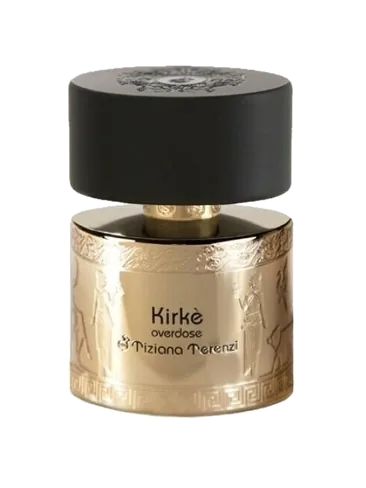
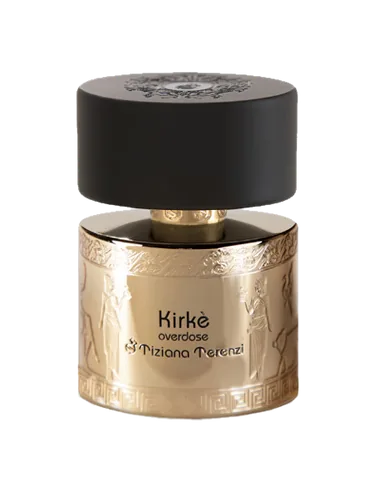
Plus aucune note inventée, et « Esprit Libre » remis à l'endroit
Trois points tranchés avec le client.

Esprit Libre n'est pas une maison, c'est LE parfum de Nayu Parfums,
qui s'appelait Yuna Parfums avant de changer de nom. Le tableur porte
donc deux lignes — « ESPRIT LIBRE / YUNA » et « ESPRIT LIBRE / NAYU » —
pour un seul jus, ce que l'export Shopify confirme : les deux pointent
la même image, et celle sous « Yuna » n'a ni note ni visuel. Une seule
fiche reste, « Esprit Libre » chez Nayu Parfums, avec la photo en
750 px qui dormait sous l'autre identifiant.

Les treize notes sur 5 posées au jugé disparaissent, ainsi que les
quatre renvois vers la source qui les accompagnaient. Elles n'étaient
pas décoratives : elles alimentaient le tri « Meilleures notes » du
catalogue, bien visible, et le choix du parfum mis en avant sur chaque
page maison. Les deux s'appuient désormais sur la tenue, qui est
mesurée, avec le nom pour départager afin que rien ne bouge d'un
chargement à l'autre. Le libellé devient « Meilleure tenue ».

Photos : la source servait la vignette en 375 px alors qu'elle a
l'original. Essayé sur les dix fiches concernées — l'original a plus
de vide autour du flacon, donc une fois recadré il est PLUS petit.
Cinq revenues en arrière, une gagnée. Ces dix-là resteront petites
tant que le client n'enverra pas ses propres photos.

Au passage, Sospiro Bel Canto n'avait jamais eu sa photo téléchargée.

340 parfums, 53 maisons, 0 bloquant.

Changed region(s): [[0.1803, 0.3996, 0.8115, 0.8607], [0.1803, 0.123, 0.8115, 0.3996], [0.5109, 0.3996, 0.6311, 0.4611]]

diff --git a/assets/js/catalogue-client.js b/assets/js/catalogue-client.js
@@ -50,8 +50,7 @@
     {"id": "eau-de-soie-peach-flake", "brand": "Eau de Soie", "brandId": "eau-de-soie", "name": "Peach Flake", "notesTop": ["Pêche", "Fleur d'oranger"], "notesHeart": ["Amande", "Vanille bourbon"], "notesBase": ["Fève de tonka", "Musc blanc", "Vanille"], "gender": "homme", "price": 11.9, "prices": {"2ml": 11.9, "5ml": 24.9, "10ml": 47.9}, "type": "decant", "supplierAvailable": true, "shopifyHandle": "test-poc-eau-de-soie-peach-flake", "accords": ["fruité", "sucré", "amande", "musqué", "vanille", "poudré", "fruits à coque", "ambre"], "annee": "2025", "family": "oriental", "image": "assets/images/products/eau-de-soie-peach-flake.webp", "imageWidth": 750},
     {"id": "eau-de-soie-summer-in-outer-banks", "brand": "Eau de Soie", "brandId": "eau-de-soie", "name": "Summer In Outer Banks", "notesTop": ["Ananas", "Bergamote", "Citron"], "notesHeart": ["Pêche", "Fleurs blanches"], "notesBase": ["Benjoin", "Cuir", "Fève de tonka"], "gender": "homme", "price": 11.9, "prices": {"2ml": 11.9, "5ml": 23.9, "10ml": 45.9}, "type": "decant", "supplierAvailable": true, "shopifyHandle": "test-poc-eau-de-soie-summer-in-outer-banks", "accords": ["fruité", "sucré", "agrume", "ambre", "tropical", "cuir", "frais"], "family": "oriental", "image": "assets/images/products/eau-de-soie-summer-in-outer-banks.webp", "imageWidth": 432},
     {"id": "ella-k-amber-k", "brand": "Ella K", "brandId": "ella-k", "name": "Amber K", "notesTop": ["Cigare cubain", "Lys", "Poivre rose"], "notesHeart": ["Cacao", "Patchouli", "Iris", "Extrait de cèdre blanc"], "notesBase": ["Ambre", "Fève de tonka", "Résine oliban", "Vanille", "Cuir"], "gender": "homme", "price": 10.9, "prices": {"2ml": 10.9, "5ml": 22.9, "10ml": 43.9}, "type": "decant", "supplierAvailable": true, "shopifyHandle": "test-poc-ella-k-amber-k", "accords": ["ambre", "épicé chaud", "vanille", "cacao", "sucré", "boisé", "poudré", "patchouli", "animal", "épicé doux"], "annee": "2025", "family": "oriental", "image": "assets/images/products/ella-k-amber-k.webp", "imageWidth": 750},
-    {"id": "esprit-libre-yuna", "brand": "Esprit Libre", "brandId": "esprit-libre", "name": "Yuna", "notesTop": ["Amande", "Pomme", "Framboise"], "notesHeart": ["Caramel", "Fruit de la passion", "Vanille"], "notesBase": ["Bois de santal", "Fève de tonka", "Vanille"], "gender": "femme", "price": 7.9, "prices": {"2ml": 7.9, "5ml": 14.9, "10ml": 28.9}, "type": "decant", "supplierAvailable": true, "shopifyHandle": "test-poc-esprit-libre-yuna", "image": "assets/images/products/esprit-libre-yuna.webp", "imageWidth": 750},
-    {"id": "esprit-libre-nayu", "brand": "Esprit Libre", "brandId": "esprit-libre", "name": "Nayu", "notesTop": ["Pomme", "Framboise", "Amande"], "notesHeart": ["Fruit de la passion", "Vanille", "Caramel"], "notesBase": ["Fève de tonka", "Bois de santal"], "gender": "unisexe", "price": 7.9, "prices": {"2ml": 7.9, "5ml": 14.9, "10ml": 28.9}, "type": "decant", "supplierAvailable": true, "shopifyHandle": "test-poc-esprit-libre-nayu", "accords": ["fruity", "sweet", "vanilla", "fresh", "tropical", "caramel", "Search by accords"], "image": "assets/images/products/esprit-libre-nayu.webp", "imageWidth": 375},
+    {"id": "nayu-parfums-esprit-libre", "brand": "Nayu Parfums", "brandId": "nayu-parfums", "name": "Esprit Libre", "notesTop": ["Pomme", "Framboise", "Amande"], "notesHeart": ["Fruit de la passion", "Vanille", "Caramel"], "notesBase": ["Fève de tonka", "Bois de santal"], "gender": "unisexe", "price": 7.9, "prices": {"2ml": 7.9, "5ml": 14.9, "10ml": 28.9}, "type": "decant", "supplierAvailable": true, "shopifyHandle": "test-poc-esprit-libre-nayu", "accords": ["fruity", "sweet", "vanilla", "fresh", "tropical", "caramel", "Search by accords"], "image": "assets/images/products/nayu-parfums-esprit-libre.webp", "imageWidth": 750},
     {"id": "fomowa-akatsuki-melba", "brand": "Fomowa", "brandId": "fomowa", "name": "Akatsuki Melba", "notesTop": ["Pêche", "Osmanthus"], "notesHeart": ["Framboise", "Gelée", "Bourgeon de cassis"], "notesBase": ["Caramel salé", "Vanille de Tahiti", "Fève de tonka"], "gender": "homme", "price": 8.9, "prices": {"2ml": 8.9, "5ml": 15.9, "10ml": 29.9}, "prixEstime": true, "type": "decant", "supplierAvailable": true, "shopifyHandle": "test-poc-fomowa-akatsuki-melba", "accords": ["fruité", "sucré", "vanille", "aromatique", "poudré"], "annee": "2025", "family": "aromatique", "image": "assets/images/products/fomowa-akatsuki-melba.webp", "imageWidth": 750},
     {"id": "fomowa-moonwalk-see-coco", "brand": "Fomowa", "brandId": "fomowa", "name": "Moonwalk See Coco", "notesTop": ["Citron de Sicile", "SugarLoaf Pineapple", "Italian Mandarin"], "notesHeart": ["Fruit de la passion", "Gingembre", "Crème fouettée", "Coco De Mer"], "notesBase": ["Citron", "Vanille", "Bois de santal"], "gender": "unisexe", "price": 8.9, "prices": {"2ml": 8.9, "5ml": 15.9, "10ml": 29.9}, "prixEstime": true, "type": "decant", "supplierAvailable": true, "shopifyHandle": "test-poc-fomowa-moonwalk-see-coco", "accords": ["citrus", "sweet", "fruity", "fresh", "vanilla", "tropical", "fresh spicy", "gourmand", "aromatic", "Search by accords"], "family": "gourmand", "image": "assets/images/products/fomowa-moonwalk-see-coco.webp", "imageWidth": 750},
     {"id": "fomowa-panaco-taha", "brand": "Fomowa", "brandId": "fomowa", "name": "Panaco Taha", "notesTop": ["Mangue", "Orange", "Vanille"], "notesHeart": ["Panacotta", "Vanille"], "notesBase": ["Safran", "Vanille de Tahiti", "Benjoin", "Musc blanc", "Fève de tonka"], "gender": "unisexe", "price": 8.9, "prices": {"2ml": 8.9, "5ml": 15.9, "10ml": 29.9}, "prixEstime": true, "type": "decant", "supplierAvailable": true, "shopifyHandle": "test-poc-fomowa-panaco-taha", "accords": ["sweet", "tropical", "vanilla", "warm spicy", "fruity", "citrus", "amber", "terpenic", "metallic", "musky", "Search by accords"], "image": "assets/images/products/fomowa-panaco-taha.webp", "imageWidth": 750},
@@ -141,7 +140,7 @@
     {"id": "stephanie-de-bruijn-promenons-nous-dans-les-bois", "brand": "Stéphanie de Bruijn", "brandId": "stephanie-de-bruijn", "name": "Promenons-nous dans les Bois", "notesTop": ["Lavande", "Notes vertes", "Citron", "Bergamote"], "notesHeart": ["Menthe", "Sauge", "Armoise", "Noix de muscade", "Anis", "Héliotrope"], "notesBase": ["Musc blanc", "Vanille", "Ambre", "Cèdre", "Bois de santal"], "gender": "homme", "price": 6.9, "prices": {"2ml": 6.9, "5ml": 11.9, "10ml": 22.9}, "type": "decant", "supplierAvailable": true, "shopifyHandle": "test-poc-stephanie-de-bruijn-promenons-nous-dans-les-bois", "accords": ["aromatique", "épicé frais", "vert", "herbacé", "musqué", "épicé doux", "Lavande", "poudré"], "annee": "2020", "family": "aromatique", "image": "assets/images/products/stephanie-de-bruijn-promenons-nous-dans-les-bois.webp", "imageWidth": 750},
     {"id": "tiziana-terenzi-halley", "brand": "Tiziana Terenzi", "brandId": "tiziana-terenzi", "name": "Halley", "notesTop": ["Fruit de la passion", "Bourgeon de cassis", "Citron", "Rose"], "notesHeart": ["Pêche", "Framboise", "Notes fleuries", "Notes vertes", "Cannelle"], "notesBase": ["Musc", "Vanille", "Notes boisées", "Ambre"], "gender": "homme", "price": 12.9, "prices": {"2ml": 12.9, "5ml": 25.9, "10ml": 49.9}, "type": "decant", "supplierAvailable": true, "shopifyHandle": "test-poc-tiziana-terenzi-halley", "accords": ["fruité", "sucré", "poudré", "musqué", "vert", "tropical", "vanille", "frais", "boisé", "aromatique"], "annee": "2019", "family": "floral", "image": "assets/images/products/tiziana-terenzi-halley.webp", "imageWidth": 540},
     {"id": "tiziana-terenzi-kirke", "brand": "Tiziana Terenzi", "brandId": "tiziana-terenzi", "name": "Kirke", "notesTop": ["Sont", "Fruit", "La", "Passion", "Pêche", "Poire", "Framboise", "Bourgeon", "Cassis", "Et", "Sable", "Note", "Est", "Muguet", "Les", "Musc", "Bois", "Santal", "Vanille", "Patchouli", "Héliotrope", "En", "Savoir", "Plus", "Sur", "Ce", "Parfum", "Dans", "D'autres", "Langues:", "Deutsch", "English", "Español", "Italiano", "Magyar", "Nederlands", "Polski", "Português", "Română", "Srpski", "Svenska", "Türkçe", "Čeština", "Ελληνικά", "Монгол", "Русский", "Українська", "עברית", "العربية", "日本語", "汉语", "한국어", "Parfumeur", "Paolo", "Terenzi", "Photos", "Fragram", "Composition", "Du", "Pyramide"], "notesHeart": ["Muguet"], "notesBase": ["Musc", "Bois", "Santal", "Vanille", "Patchouli", "Héliotrope"], "gender": "homme", "price": 7.9, "prices": {"2ml": 7.9, "5ml": 13.9, "10ml": 26.9}, "type": "decant", "supplierAvailable": true, "shopifyHandle": "test-poc-tiziana-terenzi-kirke", "accords": ["fruité", "sucré", "musqué", "poudré", "frais", "tropical", "boisé"], "annee": "2015", "family": "frais", "image": "assets/images/products/tiziana-terenzi-kirke.webp", "imageWidth": 750},
-    {"id": "tiziana-terenzi-kirke-overdose", "brand": "Tiziana Terenzi", "brandId": "tiziana-terenzi", "name": "Kirke Overdose", "notesTop": ["Fruit de la passion", "Pêche", "Framboise", "Rose de Bulgarie"], "notesHeart": ["Gardénia", "Sable", "Jasmin Sambac", "Cassis", "Muguet"], "notesBase": ["Musc", "Vanille bourbon", "Ambre gris", "Héliotrope", "Santal d'Australie", "Patchouli d'Inde"], "gender": "homme", "price": 10.9, "prices": {"2ml": 10.9, "5ml": 21.9, "10ml": 41.9}, "type": "decant", "supplierAvailable": true, "shopifyHandle": "test-poc-tiziana-terenzi-kirke-overdose", "accords": ["fruité", "fleurs blanches", "poudré", "sucré", "musqué", "vanille", "sable", "animal", "rose", "boisé"], "annee": "2025", "family": "floral", "image": "assets/images/products/tiziana-terenzi-kirke-overdose.webp", "imageWidth": 366},
+    {"id": "tiziana-terenzi-kirke-overdose", "brand": "Tiziana Terenzi", "brandId": "tiziana-terenzi", "name": "Kirke Overdose", "notesTop": ["Fruit de la passion", "Pêche", "Framboise", "Rose de Bulgarie"], "notesHeart": ["Gardénia", "Sable", "Jasmin Sambac", "Cassis", "Muguet"], "notesBase": ["Musc", "Vanille bourbon", "Ambre gris", "Héliotrope", "Santal d'Australie", "Patchouli d'Inde"], "gender": "homme", "price": 10.9, "prices": {"2ml": 10.9, "5ml": 21.9, "10ml": 41.9}, "type": "decant", "supplierAvailable": true, "shopifyHandle": "test-poc-tiziana-terenzi-kirke-overdose", "accords": ["fruité", "fleurs blanches", "poudré", "sucré", "musqué", "vanille", "sable", "animal", "rose", "boisé"], "annee": "2025", "family": "floral", "image": "assets/images/products/tiziana-terenzi-kirke-overdose.webp", "imageWidth": 374},
     {"id": "tiziana-terenzi-spirito-fiorentino", "brand": "Tiziana Terenzi", "brandId": "tiziana-terenzi", "name": "Spirito Fiorentino", "notesTop": ["Safran", "Orange", "Jasmin", "Lys"], "notesHeart": ["Ambre gris", "Ylang-ylang", "Magnolia", "Muguet"], "notesBase": ["Cuir", "Bouleau", "Bois précieux", "Musc", "Mousse de chêne", "Bois de santal"], "gender": "homme", "price": 9.9, "prices": {"2ml": 9.9, "5ml": 17.9, "10ml": 34.9}, "type": "decant", "supplierAvailable": true, "shopifyHandle": "test-poc-tiziana-terenzi-spirito-fiorentino", "accords": ["cuir", "boisé", "animal", "épicé chaud", "ambre", "fumé", "fleurs blanches", "métallique", "musqué", "mousse"], "annee": "2019", "family": "boisé", "image": "assets/images/products/tiziana-terenzi-spirito-fiorentino.webp", "imageWidth": 750},
     {"id": "tiziana-terenzi-andromeda", "brand": "Tiziana Terenzi", "brandId": "tiziana-terenzi", "name": "Andromeda", "notesTop": ["Ylang-ylang", "Jasmin d'eau", "Bergamote", "Herbe"], "notesHeart": ["Pêche", "Fleur de poirier", "Lys", "Héliotrope blanc", "Feuille de violette", "Rose de Damas"], "notesBase": ["Bois de cachemire", "Ambre", "Ébène", "Fève de tonka", "Vanille", "Sucre", "Noix de Coco"], "gender": "homme", "price": 9.9, "prices": {"2ml": 9.9, "5ml": 19.9, "10ml": 37.9}, "type": "decant", "supplierAvailable": true, "shopifyHandle": "test-poc-tiziana-terenzi-andromeda", "accords": ["boisé", "sucré", "vanille", "fleurs blanches", "ambre", "fruité", "floral", "poudré", "fleurs jaunes", "vert"], "annee": "2015", "family": "oriental", "image": "assets/images/products/tiziana-terenzi-andromeda.webp", "imageWidth": 750},
     {"id": "tiziana-terenzi-cassiopea", "brand": "Tiziana Terenzi", "brandId": "tiziana-terenzi", "name": "Cassiopea", "notesTop": ["Fruit de la passion", "Bourgeon de cassis", "Citron", "Fougère"], "notesHeart": ["Rose hybride de thé", "Muguet", "Œillet"], "notesBase": ["Fève de tonka", "Musc", "Bois de santal"], "gender": "homme", "price": 9.9, "prices": {"2ml": 9.9, "5ml": 19.9, "10ml": 38.9}, "type": "decant", "supplierAvailable": true, "shopifyHandle": "test-poc-tiziana-terenzi-cassiopea", "accords": ["fruité", "aromatique", "sucré", "frais", "tropical", "musqué", "poudré", "vanille", "boisé", "épicé chaud"], "annee": "2015", "family": "aromatique", "image": "assets/images/products/tiziana-terenzi-cassiopea.webp", "imageWidth": 750},

diff --git a/assets/js/products.js b/assets/js/products.js
@@ -56,11 +56,6 @@
       intensity: "intense",
       occasions: ["soirée", "bureau"],
       seasons: ["automne", "hiver"],
-      rating: 3.4,
-      fragrantica: {
-        rating: 4.12,
-        url: "https://www.fragrantica.fr/parfum/Amouage/Interlude-Man-15294.html",
-      },
       badge: "best",
       badgeLabel: "Best-seller",
       bestseller: true,
@@ -85,7 +80,6 @@
       seasons: ["automne", "hiver"],
       price: 9,
       priceRange: "budget",
-      rating: 4.4,
       badge: "new",
       badgeLabel: "Nouveauté",
       bestseller: false,
@@ -107,7 +101,6 @@
       intensity: "modéré",
       occasions: ["bureau", "soirée"],
       seasons: ["automne", "hiver"],
-      rating: 3.5,
       badge: "best",
       badgeLabel: "Best-seller",
       bestseller: true,
@@ -131,7 +124,6 @@
       occasions: ["bureau", "quotidien"],
       seasons: ["printemps", "été"],
       priceRange: "premium",
-      rating: 3.1,
       badge: "exclusive",
       badgeLabel: "Exclusif",
       bestseller: true,
@@ -156,11 +148,6 @@
       seasons: ["printemps", "été"],
       price: 10,
       priceRange: "budget",
-      rating: 4.1,
-      fragrantica: {
-        rating: 4.14,
-        url: "https://www.fragrantica.fr/parfum/Byredo/Bal-d-Afrique-6458.html",
-      },
       badge: null,
       badgeLabel: null,
       bestseller: false,
@@ -183,7 +170,6 @@
       occasions: ["soirée"],
       seasons: ["automne", "hiver"],
       price: 15,
-      rating: 4.3,
       badge: "new",
       badgeLabel: "Nouveauté",
       bestseller: false,
@@ -206,11 +192,6 @@
       occasions: ["bureau", "soirée"],
       seasons: ["automne", "hiver"],
       price: 11,
-      rating: 4.1,
-      fragrantica: {
-        rating: 3.99,
-        url: "https://www.fragrantica.fr/parfum/Memo-Paris/Irish-Leather-18393.html",
-      },
       badge: "new",
       badgeLabel: "Nouveauté",
       bestseller: false,
@@ -233,7 +214,6 @@
       occasions: ["date", "soirée"],
       seasons: ["automne", "hiver"],
       price: 13,
-      rating: 4.5,
       badge: "new",
       badgeLabel: "Nouveauté",
       bestseller: false,
@@ -256,7 +236,6 @@
       occasions: ["soirée", "date"],
       seasons: ["automne", "hiver"],
       price: 14,
-      rating: 3.5,
       badge: "new",
       badgeLabel: "Nouveauté",
       bestseller: false,
@@ -283,7 +262,6 @@
       seasons: ["automne", "hiver"],
       price: 17,
       priceRange: "premium",
-      rating: 3.9,
       badge: null,
       badgeLabel: null,
       bestseller: false,
@@ -306,11 +284,6 @@
       occasions: ["soirée", "date"],
       seasons: ["automne", "hiver"],
       price: 15,
-      rating: 3.1,
-      fragrantica: {
-        rating: 4.3,
-        url: "https://www.fragrantica.fr/parfum/Dior/Sauvage-Elixir-68415.html",
-      },
       badge: null,
       badgeLabel: null,
       bestseller: false,
@@ -332,7 +305,6 @@
       intensity: "modéré",
       occasions: ["quotidien", "bureau"],
       seasons: ["printemps", "été"],
-      rating: 3.8,
       badge: "best",
       badgeLabel: "Best-seller",
       bestseller: true,
@@ -361,7 +333,6 @@
       // pas ; l'autre n'apportait que le prix, qui est desormais ici.
       price: 11.9,
       prices: { "2ml": 11.9, "5ml": 22.9, "10ml": 44.9 },
-      rating: 3.7,
       badge: "best",
       badgeLabel: "Best-seller",
       bestseller: true,
@@ -477,7 +448,7 @@
     // « Esprit Libre » est le nom d'un parfum, pas d'une maison : le releve du
     // client range ainsi deux flacons signés Nayu et Yuna. Pays laissé vide
     // tant que le client n'a pas tranché.
-    { id: "esprit-libre", name: "Esprit Libre", country: "", tagline: "" },
+    { id: "nayu-parfums", name: "Nayu Parfums", country: "France", tagline: "Maison parisienne, anciennement Yuna Parfums" },
     { id: "fomowa", name: "Fomowa", country: "France", tagline: "Extraits gourmands inspirés de desserts" },
     { id: "frederic-malle", name: "Frédéric Malle", country: "France", tagline: "Éditions de parfums signées par leurs parfumeurs" },
     { id: "giardini-di-toscana", name: "Giardini di Toscana", country: "Italie", tagline: "Parfumerie familiale toscane" },

diff --git a/assets/js/catalogue-bientot.js b/assets/js/catalogue-bientot.js
@@ -161,6 +161,7 @@
     {"id": "scentologia-wood-y2-lang", "brand": "Scentologia", "brandId": "scentologia", "name": "Wood.y2.lang", "notesTop": ["Pamplemousse", "Bergamote", "Mandarine", "Noix de muscade", "Armoise"], "notesHeart": ["Ylang-ylang", "Jasmin", "Fleur d'oranger", "Muguet", "Racine d'iris"], "notesBase": ["Cèdre", "Musc", "Ambre", "Vanille", "Fève de tonka", "Patchouli", "Mousse", "Notes balsamiques"], "gender": "unisexe", "type": "decant", "bientot": true, "supplierAvailable": false, "new": true, "badge": "new", "badgeLabel": "Bientôt", "family": "floral", "annee": "2025", "parfumeur": "Emilie Coppermann", "accords": ["fleurs blanches", "boisé", "agrume", "fleurs jaunes", "sucré", "poudré"], "image": "assets/images/products/scentologia-wood-y2-lang.webp", "imageWidth": 750},
     {"id": "scentologia-nitro-musk", "brand": "Scentologia", "brandId": "scentologia", "name": "Nitro Musk", "notesTop": ["Muguet", "Héliotrope", "Bergamote"], "notesHeart": ["Fleur d'oranger", "Jasmin Sambac", "Pivoine"], "notesBase": ["Musc", "Ambrettolide", "Ambroxan", "Vétiver"], "gender": "unisexe", "type": "decant", "bientot": true, "supplierAvailable": false, "new": true, "badge": "new", "badgeLabel": "Bientôt", "family": "floral", "annee": "2026", "accords": ["fleurs blanches", "musqué", "poudré", "ambre", "frais", "floral"], "image": "assets/images/products/scentologia-nitro-musk.webp", "imageWidth": 717},
     {"id": "scentologia-syn-cherry", "brand": "Scentologia", "brandId": "scentologia", "name": "Syn.cherry", "notesTop": ["Framboise", "Cerise", "Poire", "Cassis"], "notesHeart": ["Violette", "Palissandre", "Mangue", "Rose", "Jasmin"], "notesBase": ["Ambre", "Vanille", "Caramel", "Mousse", "Cèdre", "Musc", "Patchouli"], "gender": "unisexe", "type": "decant", "bientot": true, "supplierAvailable": false, "new": true, "badge": "new", "badgeLabel": "Bientôt", "family": "floral", "annee": "2025", "parfumeur": "Pierre-Constantin Guéro", "accords": ["sucré", "fruité", "boisé", "poudré", "ambre", "violette"], "image": "assets/images/products/scentologia-syn-cherry.webp", "imageWidth": 451},
+    {"id": "sospiro-bel-canto", "brand": "Sospiro", "brandId": "sospiro", "name": "Bel Canto", "notesTop": ["Agrumes", "Jasmin"], "notesHeart": ["Notes poudrées", "Violette", "Notes vertes"], "notesBase": ["Bois de santal", "Notes boisées", "Musc", "Vanille", "Patchouli", "Ambre", "Vétiver", "Notes terreuses"], "gender": "unisexe", "type": "decant", "bientot": true, "supplierAvailable": false, "new": true, "badge": "new", "badgeLabel": "Bientôt", "annee": "2022", "parfumeur": "Christian Provenzano", "accords": ["boisé", "poudré", "vanille", "musqué", "épicé chaud", "terreux"], "image": "assets/images/products/sospiro-bel-canto.webp", "imageWidth": 750},
     {"id": "sospiro-accento-viola", "brand": "Sospiro", "brandId": "sospiro", "name": "Accento Viola", "notesTop": ["Jacinthe", "Ananas"], "notesHeart": ["Iris", "Jasmin", "Poivre rose"], "notesBase": ["Musc", "Patchouli", "Ambre", "Vétiver", "Vanille"], "gender": "unisexe", "type": "decant", "bientot": true, "supplierAvailable": false, "new": true, "badge": "new", "badgeLabel": "Bientôt", "annee": "2022", "parfumeur": "Christian Provenza", "accords": ["musqué", "poudré", "floral", "terreux", "sucré", "iris"], "image": "assets/images/products/sospiro-accento-viola.webp", "imageWidth": 622},
     {"id": "sospiro-anniversary-edition", "brand": "Sospiro", "brandId": "sospiro", "name": "Anniversary Edition", "notesTop": ["Framboise", "Bergamote", "Fleur d'oranger"], "notesHeart": ["Rose de Mai", "Tubéreuse", "Jasmin"], "notesBase": ["Ambre", "Patchouli", "Mousse de chêne"], "gender": "unisexe", "type": "decant", "bientot": true, "supplierAvailable": false, "new": true, "badge": "new", "badgeLabel": "Bientôt", "family": "oriental", "annee": "2024", "accords": ["fleurs blanches", "rose", "agrume", "fruité", "ambre", "sucré"], "image": "assets/images/products/sospiro-anniversary-edition.webp", "imageWidth": 576},
   ];

diff --git a/assets/js/brands.js b/assets/js/brands.js
@@ -147,6 +147,15 @@
     // ── KOR-E5 : maisons phares, pilotees par la donnee et non codees en dur.
     // On retient les maisons les mieux fournies, et pour chacune son parfum le
     // mieux note : le clic mene a la fiche produit, pas a la page marque.
+    // Le parfum mis en avant se choisissait sur une note sur 5 posee au juge,
+    // qui n'existait que pour treize fiches. On prend la tenue, qui est
+    // mesuree, et le nom pour departager : deux maisons sans mesure ne
+    // doivent pas changer de place d'un chargement a l'autre.
+    function tenue(produit) {
+      const mesures = window.KoreiProducts?.SENSORIEL || {};
+      return mesures[produit?.id]?.tenue ?? -1;
+    }
+
     function renderPhares() {
       const section = document.getElementById("maisons-phares");
       const row = document.getElementById("maisons-phares-row");
@@ -154,10 +163,10 @@
       const phares = vendues
         .map((b) => ({
           brand: b,
-          hero: [...b.products].sort((a, c) => (c.rating || 0) - (a.rating || 0))[0],
+          hero: [...b.products].sort((a, c) => tenue(c) - tenue(a) || a.name.localeCompare(c.name, "fr"))[0],
         }))
         .filter((x) => x.hero && x.hero.image)
-        .sort((a, c) => (c.hero.rating || 0) - (a.hero.rating || 0))
+        .sort((a, c) => tenue(c.hero) - tenue(a.hero) || a.brand.name.localeCompare(c.brand.name, "fr"))
         .slice(0, 6);
       if (phares.length < 3) {
         section.hidden = true;

diff --git a/assets/js/product-store.js b/assets/js/product-store.js
@@ -84,12 +84,20 @@
     return catalog().filter((p) => productSearchText(p).includes(q));
   }
 
+  function tenue(produit) {
+    const mesures = global.KoreiProducts?.SENSORIEL || {};
+    return mesures[produit.id]?.tenue ?? -1;
+  }
+
   function sortProducts(list, sort = "popular") {
     const sorted = [...list];
     if (sort === "price-asc") sorted.sort((a, b) => a.price - b.price);
     else if (sort === "price-desc") sorted.sort((a, b) => b.price - a.price);
-    else if (sort === "rating") sorted.sort((a, b) => b.rating - a.rating);
-    else sorted.sort((a, b) => (b.bestseller ? 1 : 0) - (a.bestseller ? 1 : 0) || b.rating - a.rating);
+    // La tenue est mesuree, contrairement a la note sur 5 qui trainait ici
+    // et que personne n'avait jamais relevee. Un parfum sans mesure passe
+    // derriere ceux qui en ont une, plutot que de valoir zero.
+    else if (sort === "tenue") sorted.sort((a, b) => tenue(b) - tenue(a));
+    else sorted.sort((a, b) => (b.bestseller ? 1 : 0) - (a.bestseller ? 1 : 0) || tenue(b) - tenue(a));
     return sorted;
   }
 

diff --git a/pages/catalogue.html b/pages/catalogue.html
@@ -295,7 +295,7 @@
           <span id="catalogue-count" class="catalogue-count"></span>
           <select id="filter-sort" aria-label="Tri">
             <option value="popular">Populaires</option>
-            <option value="rating">Meilleures notes</option>
+            <option value="tenue">Meilleure tenue</option>
             <option value="price-asc">Prix croissant</option>
             <option value="price-desc">Prix décroissant</option>
           </select>
